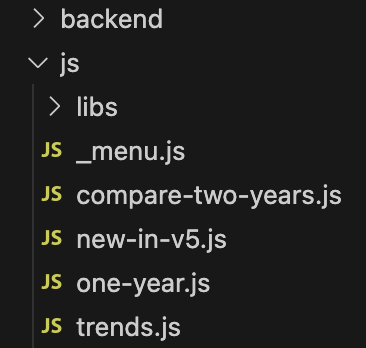
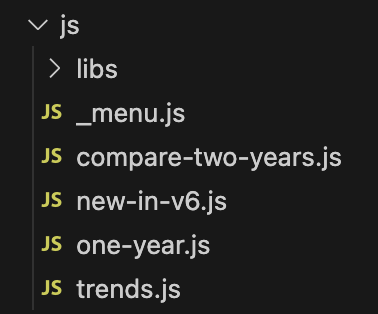
ok

Changed region(s): [[0.0601, 0.0287, 0.9317, 0.8599], [0.0902, 0.8885, 0.5109, 1.0], [0.0601, 0.0287, 0.1202, 0.1146]]

diff --git a/README.md b/README.md
@@ -47,7 +47,7 @@ Mappen backend ska du sällan (om någonsin) behöva fälla ut och öppna filer 
 
 ### Mappen js
 
-#### Filstruktur i js-mappen
+#### Exempel på filstruktur i js-mappen
 ![Filstruktur i js-mappen](backend/showDocs/images/file-structure-js-folder.png)
 
 Det här är den viktigaste mappen för dig.
@@ -65,6 +65,33 @@ Det här är den viktigaste mappen för dig.
 Allt detta gör du via olika funktionsanrop som finns dokumenterade under huvudrubriken **API**.
 
 I mappen finns även en undermap med namnet **libs**. Denna behöver du sällan (om någonsin) titta i, men den innehåller olika hjälpbibliotek vars kod du kan använda dig av. (Hur du använder dem finns dokumenterat under rubriken **API**.)
+
+>**Tänk på:**
+>* Det du ser i exemplet ovan är bara exempelfiler.
+>* När du startar ett eget projekt kan du ta bort dem, utom mappen **libs** och filen **_menu.js**.
+>* Filen **_menu.js** ändrar du så att den länkar olika menyval i webbplatsens menysystem till att köra olika JavaScript-filer.
+
+### Mappen node_modules
+Mappen **node_modules** skapas först när du har skrivit **npm install**. Den innehåller de bibliotek som mallen (och framförallt webbservern/backend) är beroende av för att fungera - bl.a. databasdrivers.
+
+Du ska aldrig behöva öppna denn mapp!
+
+### Mappen sqlite-databases
+![Filstruktur i sqlite-databases-mappen](backend/showDocs/images/file-structure-sqlite-databases-folder.png)
+
+I mappen **sqlite-databases** lägger du de **SQLite**-databaser du vill använda dig av.  (Behöver bara vara en.)
+
+* Upp t.o.m. version 6 (denna version) av mallen kan du bara använda dig av databas från dina JavaScript-filer. I framtida versioner funderar vi på att ändra detta, samt även lägga till möjlighet att koppla sig mot andra typer av databaser än **SQLite**-databaser.
+* Det är viktigt att du berättar för **webbservern** vilken databas du vill använda (se nedan).
+
+#### Berätta vilken databas du vill använda
+Öppna filen **database-in-use.json** och redigera den, genom att byta namnet inom citattecken till det exakta filnamnet för den databas du vill använda (som ska ligga i samma mapp):
+
+```json
+"smhi-temp-and-rainfall-malmo.sqlite3"
+```
+
+### Filer utanför mappar
 
 
 
